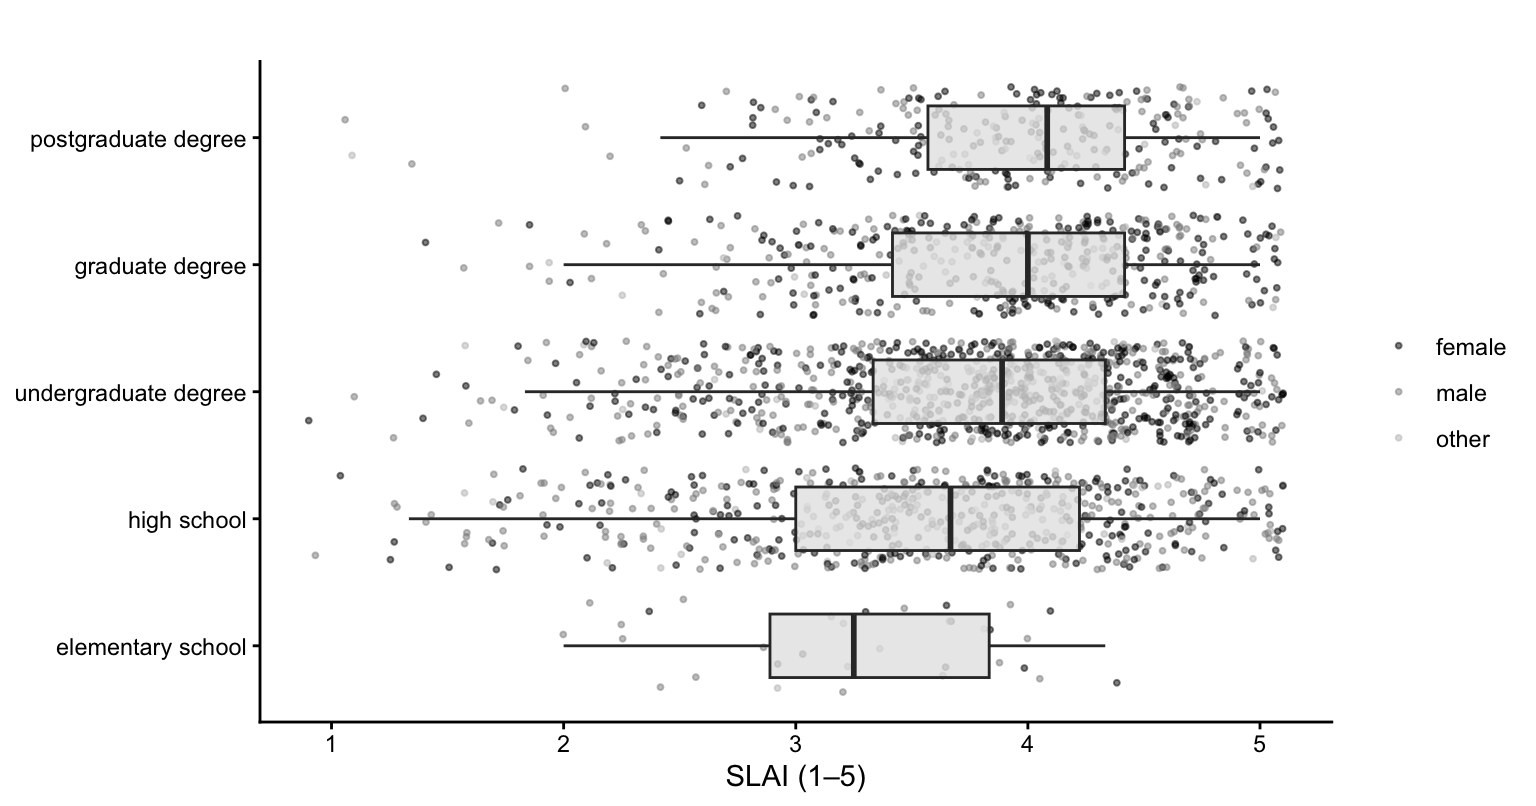
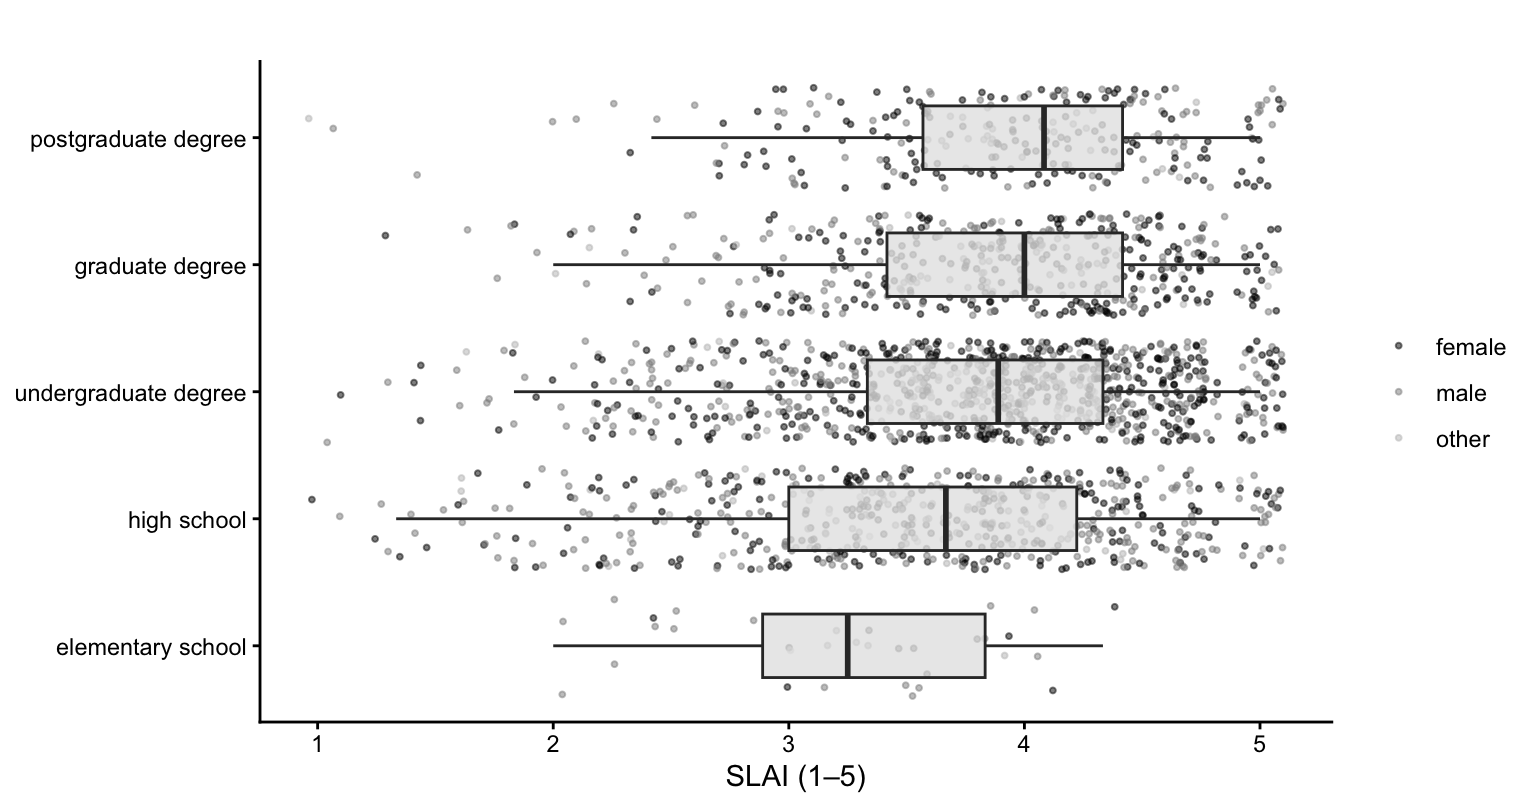
upd

diff --git a/index.html b/index.html
@@ -329,23 +329,23 @@ To Stefan
 <p>I have selected the following variables by short names, hoping that these are the correct ones to show in Figure 2.</p>
 <div class="cell">
 <div class="cell-output-display">
-<div id="hyjryyoyou" style="padding-left:0px;padding-right:0px;padding-top:10px;padding-bottom:10px;overflow-x:auto;overflow-y:auto;width:auto;height:auto;">
-<style>#hyjryyoyou table {
+<div id="fbbgmdtohj" style="padding-left:0px;padding-right:0px;padding-top:10px;padding-bottom:10px;overflow-x:auto;overflow-y:auto;width:auto;height:auto;">
+<style>#fbbgmdtohj table {
   font-family: system-ui, 'Segoe UI', Roboto, Helvetica, Arial, sans-serif, 'Apple Color Emoji', 'Segoe UI Emoji', 'Segoe UI Symbol', 'Noto Color Emoji';
   -webkit-font-smoothing: antialiased;
   -moz-osx-font-smoothing: grayscale;
 }
 
-#hyjryyoyou thead, #hyjryyoyou tbody, #hyjryyoyou tfoot, #hyjryyoyou tr, #hyjryyoyou td, #hyjryyoyou th {
+#fbbgmdtohj thead, #fbbgmdtohj tbody, #fbbgmdtohj tfoot, #fbbgmdtohj tr, #fbbgmdtohj td, #fbbgmdtohj th {
   border-style: none;
 }
 
-#hyjryyoyou p {
+#fbbgmdtohj p {
   margin: 0;
   padding: 0;
 }
 
-#hyjryyoyou .gt_table {
+#fbbgmdtohj .gt_table {
   display: table;
   border-collapse: collapse;
   line-height: normal;
@@ -371,12 +371,12 @@ To Stefan
   border-left-color: #D3D3D3;
 }
 
-#hyjryyoyou .gt_caption {
+#fbbgmdtohj .gt_caption {
   padding-top: 4px;
   padding-bottom: 4px;
 }
 
-#hyjryyoyou .gt_title {
+#fbbgmdtohj .gt_title {
   color: #333333;
   font-size: 125%;
   font-weight: initial;
@@ -388,7 +388,7 @@ To Stefan
   border-bottom-width: 0;
 }
 
-#hyjryyoyou .gt_subtitle {
+#fbbgmdtohj .gt_subtitle {
   color: #333333;
   font-size: 85%;
   font-weight: initial;
@@ -400,7 +400,7 @@ To Stefan
   border-top-width: 0;
 }
 
-#hyjryyoyou .gt_heading {
+#fbbgmdtohj .gt_heading {
   background-color: #FFFFFF;
   text-align: center;
   border-bottom-color: #FFFFFF;
@@ -412,13 +412,13 @@ To Stefan
   border-right-color: #D3D3D3;
 }
 
-#hyjryyoyou .gt_bottom_border {
+#fbbgmdtohj .gt_bottom_border {
   border-bottom-style: solid;
   border-bottom-width: 2px;
   border-bottom-color: #D3D3D3;
 }
 
-#hyjryyoyou .gt_col_headings {
+#fbbgmdtohj .gt_col_headings {
   border-top-style: solid;
   border-top-width: 2px;
   border-top-color: #D3D3D3;
@@ -433,7 +433,7 @@ To Stefan
   border-right-color: #D3D3D3;
 }
 
-#hyjryyoyou .gt_col_heading {
+#fbbgmdtohj .gt_col_heading {
   color: #333333;
   background-color: #FFFFFF;
   font-size: 100%;
@@ -453,7 +453,7 @@ To Stefan
   overflow-x: hidden;
 }
 
-#hyjryyoyou .gt_column_spanner_outer {
+#fbbgmdtohj .gt_column_spanner_outer {
   color: #333333;
   background-color: #FFFFFF;
   font-size: 100%;
@@ -465,15 +465,15 @@ To Stefan
   padding-right: 4px;
 }
 
-#hyjryyoyou .gt_column_spanner_outer:first-child {
+#fbbgmdtohj .gt_column_spanner_outer:first-child {
   padding-left: 0;
 }
 
-#hyjryyoyou .gt_column_spanner_outer:last-child {
+#fbbgmdtohj .gt_column_spanner_outer:last-child {
   padding-right: 0;
 }
 
-#hyjryyoyou .gt_column_spanner {
+#fbbgmdtohj .gt_column_spanner {
   border-bottom-style: solid;
   border-bottom-width: 2px;
   border-bottom-color: #D3D3D3;
@@ -485,11 +485,11 @@ To Stefan
   width: 100%;
 }
 
-#hyjryyoyou .gt_spanner_row {
+#fbbgmdtohj .gt_spanner_row {
   border-bottom-style: hidden;
 }
 
-#hyjryyoyou .gt_group_heading {
+#fbbgmdtohj .gt_group_heading {
   padding-top: 8px;
   padding-bottom: 8px;
   padding-left: 5px;
@@ -515,7 +515,7 @@ To Stefan
   text-align: left;
 }
 
-#hyjryyoyou .gt_empty_group_heading {
+#fbbgmdtohj .gt_empty_group_heading {
   padding: 0.5px;
   color: #333333;
   background-color: #FFFFFF;
@@ -530,15 +530,15 @@ To Stefan
   vertical-align: middle;
 }
 
-#hyjryyoyou .gt_from_md > :first-child {
+#fbbgmdtohj .gt_from_md > :first-child {
   margin-top: 0;
 }
 
-#hyjryyoyou .gt_from_md > :last-child {
+#fbbgmdtohj .gt_from_md > :last-child {
   margin-bottom: 0;
 }
 
-#hyjryyoyou .gt_row {
+#fbbgmdtohj .gt_row {
   padding-top: 8px;
   padding-bottom: 8px;
   padding-left: 5px;
@@ -557,7 +557,7 @@ To Stefan
   overflow-x: hidden;
 }
 
-#hyjryyoyou .gt_stub {
+#fbbgmdtohj .gt_stub {
   color: #333333;
   background-color: #FFFFFF;
   font-size: 100%;
@@ -570,7 +570,7 @@ To Stefan
   padding-right: 5px;
 }
 
-#hyjryyoyou .gt_stub_row_group {
+#fbbgmdtohj .gt_stub_row_group {
   color: #333333;
   background-color: #FFFFFF;
   font-size: 100%;
@@ -584,15 +584,15 @@ To Stefan
   vertical-align: top;
 }
 
-#hyjryyoyou .gt_row_group_first td {
+#fbbgmdtohj .gt_row_group_first td {
   border-top-width: 2px;
 }
 
-#hyjryyoyou .gt_row_group_first th {
+#fbbgmdtohj .gt_row_group_first th {
   border-top-width: 2px;
 }
 
-#hyjryyoyou .gt_summary_row {
+#fbbgmdtohj .gt_summary_row {
   color: #333333;
   background-color: #FFFFFF;
   text-transform: inherit;
@@ -602,16 +602,16 @@ To Stefan
   padding-right: 5px;
 }
 
-#hyjryyoyou .gt_first_summary_row {
+#fbbgmdtohj .gt_first_summary_row {
   border-top-style: solid;
   border-top-color: #D3D3D3;
 }
 
-#hyjryyoyou .gt_first_summary_row.thick {
+#fbbgmdtohj .gt_first_summary_row.thick {
   border-top-width: 2px;
 }
 
-#hyjryyoyou .gt_last_summary_row {
+#fbbgmdtohj .gt_last_summary_row {
   padding-top: 8px;
   padding-bottom: 8px;
   padding-left: 5px;
@@ -621,7 +621,7 @@ To Stefan
   border-bottom-color: #D3D3D3;
 }
 
-#hyjryyoyou .gt_grand_summary_row {
+#fbbgmdtohj .gt_grand_summary_row {
   color: #333333;
   background-color: #FFFFFF;
   text-transform: inherit;
@@ -631,7 +631,7 @@ To Stefan
   padding-right: 5px;
 }
 
-#hyjryyoyou .gt_first_grand_summary_row {
+#fbbgmdtohj .gt_first_grand_summary_row {
   padding-top: 8px;
   padding-bottom: 8px;
   padding-left: 5px;
@@ -641,7 +641,7 @@ To Stefan
   border-top-color: #D3D3D3;
 }
 
-#hyjryyoyou .gt_last_grand_summary_row_top {
+#fbbgmdtohj .gt_last_grand_summary_row_top {
   padding-top: 8px;
   padding-bottom: 8px;
   padding-left: 5px;
@@ -651,11 +651,11 @@ To Stefan
   border-bottom-color: #D3D3D3;
 }
 
-#hyjryyoyou .gt_striped {
+#fbbgmdtohj .gt_striped {
   background-color: rgba(128, 128, 128, 0.05);
 }
 
-#hyjryyoyou .gt_table_body {
+#fbbgmdtohj .gt_table_body {
   border-top-style: solid;
   border-top-width: 2px;
   border-top-color: #D3D3D3;
@@ -664,7 +664,7 @@ To Stefan
   border-bottom-color: #D3D3D3;
 }
 
-#hyjryyoyou .gt_footnotes {
+#fbbgmdtohj .gt_footnotes {
   color: #333333;
   background-color: #FFFFFF;
   border-bottom-style: none;
@@ -678,7 +678,7 @@ To Stefan
   border-right-color: #D3D3D3;
 }
 
-#hyjryyoyou .gt_footnote {
+#fbbgmdtohj .gt_footnote {
   margin: 0px;
   font-size: 90%;
   padding-top: 4px;
@@ -687,7 +687,7 @@ To Stefan
   padding-right: 5px;
 }
 
-#hyjryyoyou .gt_sourcenotes {
+#fbbgmdtohj .gt_sourcenotes {
   color: #333333;
   background-color: #FFFFFF;
   border-bottom-style: none;
@@ -701,7 +701,7 @@ To Stefan
   border-right-color: #D3D3D3;
 }
 
-#hyjryyoyou .gt_sourcenote {
+#fbbgmdtohj .gt_sourcenote {
   font-size: 90%;
   padding-top: 4px;
   padding-bottom: 4px;
@@ -709,72 +709,72 @@ To Stefan
   padding-right: 5px;
 }
 
-#hyjryyoyou .gt_left {
+#fbbgmdtohj .gt_left {
   text-align: left;
 }
 
-#hyjryyoyou .gt_center {
+#fbbgmdtohj .gt_center {
   text-align: center;
 }
 
-#hyjryyoyou .gt_right {
+#fbbgmdtohj .gt_right {
   text-align: right;
   font-variant-numeric: tabular-nums;
 }
 
-#hyjryyoyou .gt_font_normal {
+#fbbgmdtohj .gt_font_normal {
   font-weight: normal;
 }
 
-#hyjryyoyou .gt_font_bold {
+#fbbgmdtohj .gt_font_bold {
   font-weight: bold;
 }
 
-#hyjryyoyou .gt_font_italic {
+#fbbgmdtohj .gt_font_italic {
   font-style: italic;
 }
 
-#hyjryyoyou .gt_super {
+#fbbgmdtohj .gt_super {
   font-size: 65%;
 }
 
-#hyjryyoyou .gt_footnote_marks {
+#fbbgmdtohj .gt_footnote_marks {
   font-size: 75%;
   vertical-align: 0.4em;
   position: initial;
 }
 
-#hyjryyoyou .gt_asterisk {
+#fbbgmdtohj .gt_asterisk {
   font-size: 100%;
   vertical-align: 0;
 }
 
-#hyjryyoyou .gt_indent_1 {
+#fbbgmdtohj .gt_indent_1 {
   text-indent: 5px;
 }
 
-#hyjryyoyou .gt_indent_2 {
+#fbbgmdtohj .gt_indent_2 {
   text-indent: 10px;
 }
 
-#hyjryyoyou .gt_indent_3 {
+#fbbgmdtohj .gt_indent_3 {
   text-indent: 15px;
 }
 
-#hyjryyoyou .gt_indent_4 {
+#fbbgmdtohj .gt_indent_4 {
   text-indent: 20px;
 }
 
-#hyjryyoyou .gt_indent_5 {
+#fbbgmdtohj .gt_indent_5 {
   text-indent: 25px;
 }
 
-#hyjryyoyou .katex-display {
+#fbbgmdtohj .katex-display {
   display: inline-flex !important;
   margin-bottom: 0.75em !important;
 }
 
-#hyjryyoyou div.Reactable > div.rt-table > div.rt-thead > div.rt-tr.rt-tr-group-header > div.rt-th-group:after {
+#fbbgmdtohj div.Reactable > div.rt-table > div.rt-thead > div.rt-tr.rt-tr-group-header > div.rt-th-group:after {
   height: 0px !important;
 }
 </style>
@@ -1554,7 +1554,7 @@ Figure&nbsp;7: “Canadian way of speaking” by residential biography (left) an
 <h2 data-number="4.4" class="anchored" data-anchor-id="standard-language-attitude-index-slai"><span class="header-section-number">4.4</span> Standard Language Attitude Index (SLAI)</h2>
 <p>A further attempt to gauge awareness of standard varieties is via a composite Index SLAI. The original concept of combining five factors was reduced to four due to low internal consistency with the last factor (Have you heard the term “Standard Canadian English”), which was treated separately above. SLAI averages the following four variables at the level of the individual respondent.<a href="#_ftn1">[1]</a></p>
 <ul>
-<li><p><strong>Spell_uni</strong>: Do you think Canadian university departments should encourage Canadian English spelling in academic work?</p></li>
+<li><p><strong>spell_uni</strong>: Do you think Canadian university departments should encourage Canadian English spelling in academic work?</p></li>
 <li><p><strong>spell</strong>: Do you think that Canadian spelling is important (e.g.&nbsp;“colour” instead of “color”, “familiarize” not “familiarise”)?</p></li>
 <li><p><strong>distinct</strong>: In your opinion, is Canadian English a distinct kind of English (e.g.&nbsp;similar to American English being distinct from British English)?</p></li>
 <li><p><strong>cdn_way</strong>: In your opinion, is there a Canadian way of speaking English?</p></li>
